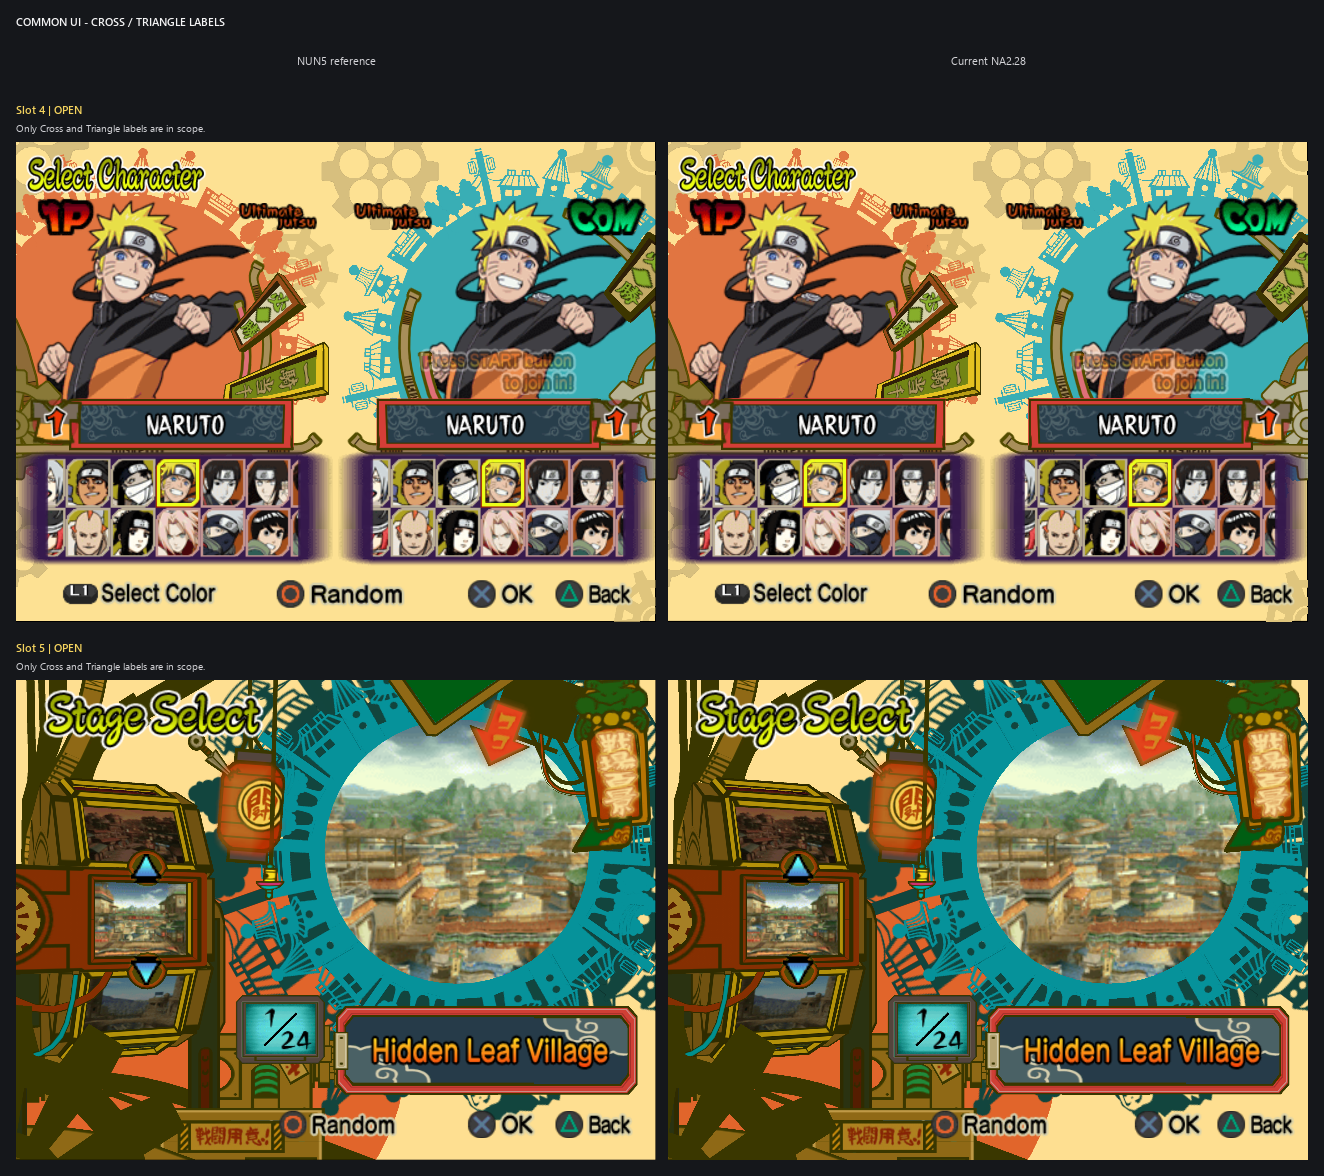
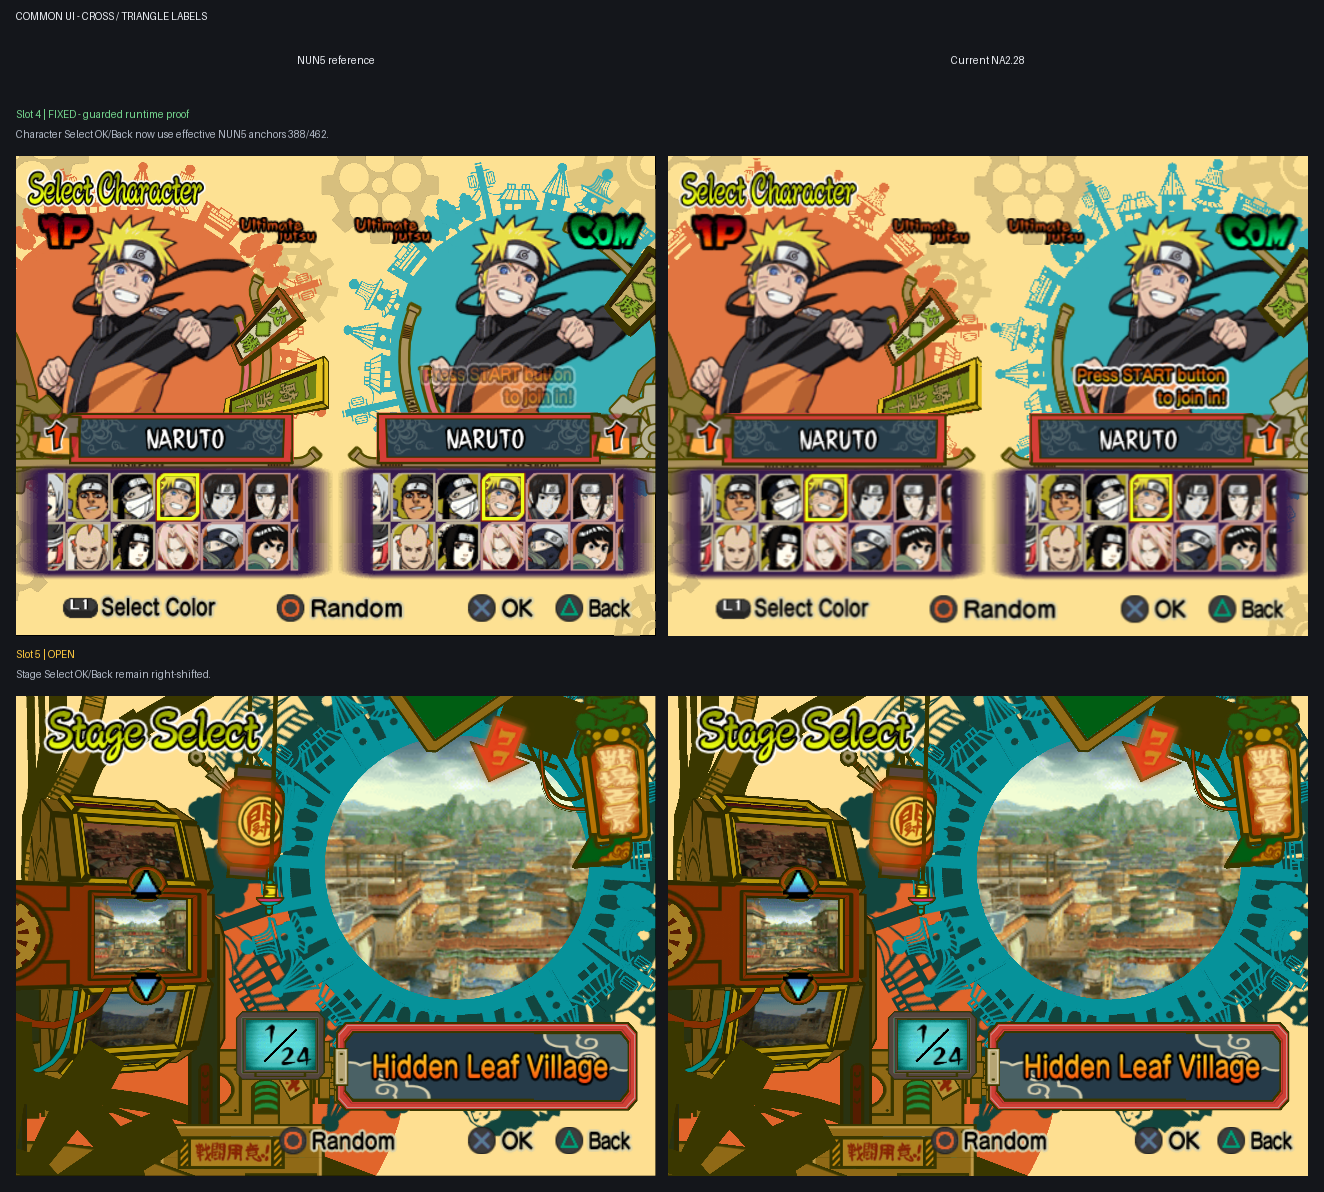
[UI Translation] Align Character Select prompts

diff --git a/na2_patcher/tests/test_texture_patcher.py b/na2_patcher/tests/test_texture_patcher.py
@@ -1335,7 +1335,7 @@ class UiTextureTests(unittest.TestCase):
             (64, 88, 64, 20),
         )
 
-    def test_character_select_footer_anchors_are_exact_nun5_copies(self) -> None:
+    def test_character_select_footer_anchors_match_nun5_geometry(self) -> None:
         repository = Path(__file__).resolve().parents[2]
         package = binary_patcher.load_package(
             repository
@@ -1345,28 +1345,40 @@ class UiTextureTests(unittest.TestCase):
 
         self.assertEqual(
             [item.edit_id for item in edits],
-            ["UI-ELF-007-01", "UI-ELF-007-02"],
+            [
+                "UI-ELF-007-01",
+                "UI-ELF-007-02",
+                "UI-ELF-007-03",
+                "UI-ELF-007-04",
+            ],
         )
-        self.assertTrue(all(item.operation == "copy" for item in edits))
+        self.assertEqual(
+            [item.operation for item in edits],
+            ["copy", "copy", "replace", "replace"],
+        )
         self.assertEqual(
             [item.destination_offset for item in edits],
-            [0x2BC600, 0x2BC624],
+            [0x2BC600, 0x2BC624, 0x2BC4B8, 0x2BC4DC],
         )
         self.assertEqual(
             [item.expected_hex for item in edits],
-            ["9643023C", "2043023C"],
+            ["9643023C", "2043023C", "C843023C", "EB43023C"],
         )
         self.assertEqual(
             [item.source_target_id for item in edits],
-            ["nun5_elf", "nun5_elf"],
+            ["nun5_elf", "nun5_elf", "", ""],
         )
         self.assertEqual(
             [item.source_offset for item in edits],
-            [0x2CF300, 0x2CF324],
+            [0x2CF300, 0x2CF324, None, None],
         )
         self.assertEqual(
             [item.source_expected_hex for item in edits],
-            ["8243023C", "C842023C"],
+            ["8243023C", "C842023C", "", ""],
+        )
+        self.assertEqual(
+            [item.replacement_hex for item in edits],
+            ["", "", "C243023C", "E743023C"],
         )
 
     def test_shared_common_prompt_data_and_options_anchors(self) -> None:

diff --git a/docs/knowledge/localization/ui/character_select.md b/docs/knowledge/localization/ui/character_select.md
@@ -9,8 +9,8 @@ runtime-to-file mapping within the functions below:
 
 | Game | Function | Runtime range | Relevant file offsets |
 | --- | --- | --- | --- |
-| NA2 | `FUN_003bc470` | `0x003BC470..0x003BC63C` | `0x2BC600`, `0x2BC624` |
-| NUN5 | `FUN_003cf0d0` | `0x003CF0D0..0x003CF290` | `0x2CF300`, `0x2CF324` |
+| NA2 | `FUN_003bc470` | `0x003BC470..0x003BC63C` | `0x2BC4B8`, `0x2BC4DC`, `0x2BC600`, `0x2BC624` |
+| NUN5 | `FUN_003cf0d0` | `0x003CF0D0..0x003CF290` | `0x2CF118`, `0x2CF14C`, `0x2CF300`, `0x2CF324` |
 
 The complete `CHARSEL1.CCS` payload is already imported from NUN5. Its
 localized artwork and model data are therefore not the remaining cause.
@@ -22,8 +22,8 @@ drawing both player selectors. The relevant behavior is:
 
 ```cpp
 void draw_character_select_footer(Screen *screen) {
-    draw_common_prompt(400.0f, 362.0f, screen->common_prompts, 0); // OK
-    draw_common_prompt(470.0f, 362.0f, screen->common_prompts, 1); // Back
+    draw_common_prompt(ok_x, 362.0f, screen->common_prompts, 0);   // OK
+    draw_common_prompt(back_x, 362.0f, screen->common_prompts, 1); // Back
 
     // CHARSEL1.CCS records:
     draw_charsel_record(random_x, 362.0f, screen->charsel_sprites, random_rect);
@@ -32,18 +32,27 @@ void draw_character_select_footer(Screen *screen) {
 }
 ```
 
-NA2 uses `random_x=300.0f` and `select_color_x=160.0f`. NUN5 uses
-`random_x=260.0f` and `select_color_x=100.0f`. The two loads have the same
-destination register and equivalent call sites, so `UI-ELF-007` copies the
-official NUN5 instruction words directly:
+NA2 uses `random_x=300.0f`, `select_color_x=160.0f`, `ok_x=400.0f`, and
+`back_x=470.0f`. NUN5 uses `random_x=260.0f` and
+`select_color_x=100.0f`; its OK/Back paths start from the same nominal
+`400.0f`/`470.0f` values and then add signed regional globals `-12`/`-8`.
+The artwork loads have the same destination register and equivalent call
+sites, so `UI-ELF-007` copies the official NUN5 instruction words directly:
 
 | Control | NA2 offset / bytes | NUN5 offset / bytes |
 | --- | --- | --- |
 | Random | `0x2BC600` / `9643023C` | `0x2CF300` / `8243023C` |
 | Select Color | `0x2BC624` / `2043023C` | `0x2CF324` / `C842023C` |
 
-The common OK and Back calls use separate code and resources. They are
-deliberately excluded from this patch.
+The common OK and Back calls use separate code and resources. NUN5's added
+GP-relative global loads are not ABI-compatible with NA2, so copying only its
+nominal `lui` instructions would preserve the defect. Two authored
+same-register ports instead encode the official effective anchors:
+
+| Control | NA2 offset / original | Replacement | NUN5 behavior |
+| --- | --- | --- | --- |
+| OK | `0x2BC4B8` / `C843023C` | `C243023C` (X=`388`) | `400 + (-12)` |
+| Back | `0x2BC4DC` / `EB43023C` | `E743023C` (X=`462`) | `470 + (-8)` |
 
 ## Relationships and evidence
 
@@ -54,17 +63,20 @@ deliberately excluded from this patch.
 - Side effects: the function submits footer sprites and temporarily adjusts
   opacity for join-state feedback; the anchor instructions do not mutate game
   state.
-- Runtime evidence before the patch: paired 640x480 captures show the two NA2
-  records displaced right while OK and Back remain on their separate accepted
-  path.
+- Runtime evidence before the patch: paired 640x480 captures show all four NA2
+  footer records displaced right.
 - Runtime evidence after the patch: a guarded task-owned savestate copy applied
   the same two resident words before redraw. In the resulting hidden-clone
   capture, the dark-pixel bounds were `48..199,442..462` for Select Color and
   `262..386,439..465` for Random, versus NUN5 bounds
-  `47..198,441..461` and `261..385,438..465`. The one-pixel phase difference
-  is normal pulse timing; neither label is clipped.
+  `47..198,441..461` and `261..385,438..465`. A second guarded Slot 4 capture
+  applies X=`388`/`462` to the separate OK/Back calls and aligns them with the
+  reference. The remaining one-pixel phase variance is normal prompt
+  pulsation; no label is clipped.
 - Negative result: importing the complete NUN5 `CHARSEL1.CCS` alone does not
-  change these anchors because they are supplied by executable code.
+  change these anchors because they are supplied by executable code. Literal
+  NUN5 OK/Back instruction copies are also insufficient because the effective
+  offset is calculated by extra region-specific instructions absent from NA2.
 
 Confidence is **verified**: both complete functions are homologous, the exact
 source/destination words match the clean binaries, and the paired runtime

diff --git a/docs/workstreams/ui_translation/plan.md b/docs/workstreams/ui_translation/plan.md
@@ -535,7 +535,7 @@ placement is preserved. The user verified both integrated screens and accepted
 Command Menu and Command Chart as good.
 
 Canonical binary-package validation reports 7 targets, 9 groups, 101 patches,
-and 449 edits. The accepted isolated runtime result additionally copies the
+and 451 edits. The accepted isolated runtime result additionally copies the
 complete NUN5 OK/Back records, suppresses NA2's redundant separate glyph draws,
 and calibrates their NA2 anchors so both prompts match the NUN5 reference.
 The user's final paired visual inspection accepted Slot 4 as perfect on
@@ -552,8 +552,11 @@ matches the reference. Collection Music Slot 3 uses the different shared HOME
 action helper: one guarded wrapper applies NUN5's state-specific Cross
 `-12`, Play `-24`, and Triangle `-8` geometry, and the Play label receives the
 same localized centering shift. Its task-owned render matches the reference.
-Slots 4-5 remain open. New paired slot-1 and slot-2 Collection footer cases are
-preserved under UI Translation inputs and queued after the current slots. The
+Character Select Slot 4 extends its existing `UI-ELF-007` footer patch with
+effective NUN5 OK/Back anchors X=`388`/`462`; its task-owned render also
+matches the reference. Slot 5 remains open. New paired slot-1 and slot-2
+Collection footer cases are preserved under UI Translation inputs and queued
+after the current slots. The
 earlier Slot 2 failure of the `0x2E7E0` table/HOME helper remains evidence only
 that Collection root uses a separate renderer. The rejected
 rank-label Y-compensation trial and exact pixel/object evidence are preserved

diff --git a/na2_patcher/features/localization/README.md b/na2_patcher/features/localization/README.md
@@ -1594,12 +1594,14 @@ boot-ELF Character Select footer compositor:
 
 `UI-ELF-007` copies the two exact NUN5 `lui v0` instructions into NA2 ELF
 offsets `0x2BC600` and `0x2BC624`. Both homologs use `v0` for these calls, so
-no register adaptation or authored literal is needed. The neighboring OK and
-Back controls are issued by separate renderer calls and remain byte-identical
-to clean NA2. A guarded patched copy of the preserved state was rendered by the
-task-owned hidden clone: both target groups landed within one pixel of NUN5 in
-X and Y, consistent with normal pulse timing. Exact boundaries, mappings,
-reconstruction, and runtime evidence are preserved in
+no register adaptation or authored literal is needed. NUN5 also adds regional
+offsets `-12`/`-8` to nominal OK/Back X=`400`/`470`; NA2 issues those separate
+calls without the additions. Two authored same-register constants at NA2 ELF
+offsets `0x2BC4B8` and `0x2BC4DC` therefore encode the equivalent effective
+anchors X=`388`/`462`. Guarded patched copies of the preserved state were
+rendered by the task-owned hidden clone: all four footer groups land at the
+NUN5 positions within normal one-pixel pulse variance. Exact boundaries,
+mappings, reconstruction, and runtime evidence are preserved in
 `docs/knowledge/localization/ui/character_select.md`.
 
 ### UI-ELF-008: localized shared common prompts

diff --git a/docs/workstreams/ui_translation/epics/remaining_ui/README.md b/docs/workstreams/ui_translation/epics/remaining_ui/README.md
@@ -17,10 +17,12 @@ the right.
    matches the guarded NUN5 runtime proof. Slot 2 Collection root is also
    implemented through its distinct shared position table and matches the
    guarded NUN5 proof. Slot 3 Collection Music is implemented once in its
-   shared HOME action helper and matches the guarded NUN5 proof; Slots 4-5
-   remain. A newer paired slot 2 adds the Collection Characters OK/Back footer
-   after the current cases. Correct only the Cross and Triangle labels across
-   the preserved screens as one shared subtask.
+   shared HOME action helper and matches the guarded NUN5 proof. Slot 4
+   Character Select extends its existing shared footer patch with the same
+   effective NUN5 OK/Back anchors and matches the guarded runtime proof; Slot 5
+   remains. A newer paired slot 2 adds the Collection Characters OK/Back
+   footer after the current cases. Correct only the Cross and Triangle labels
+   across the preserved screens as one shared subtask.
 
 ## Report grids
 
